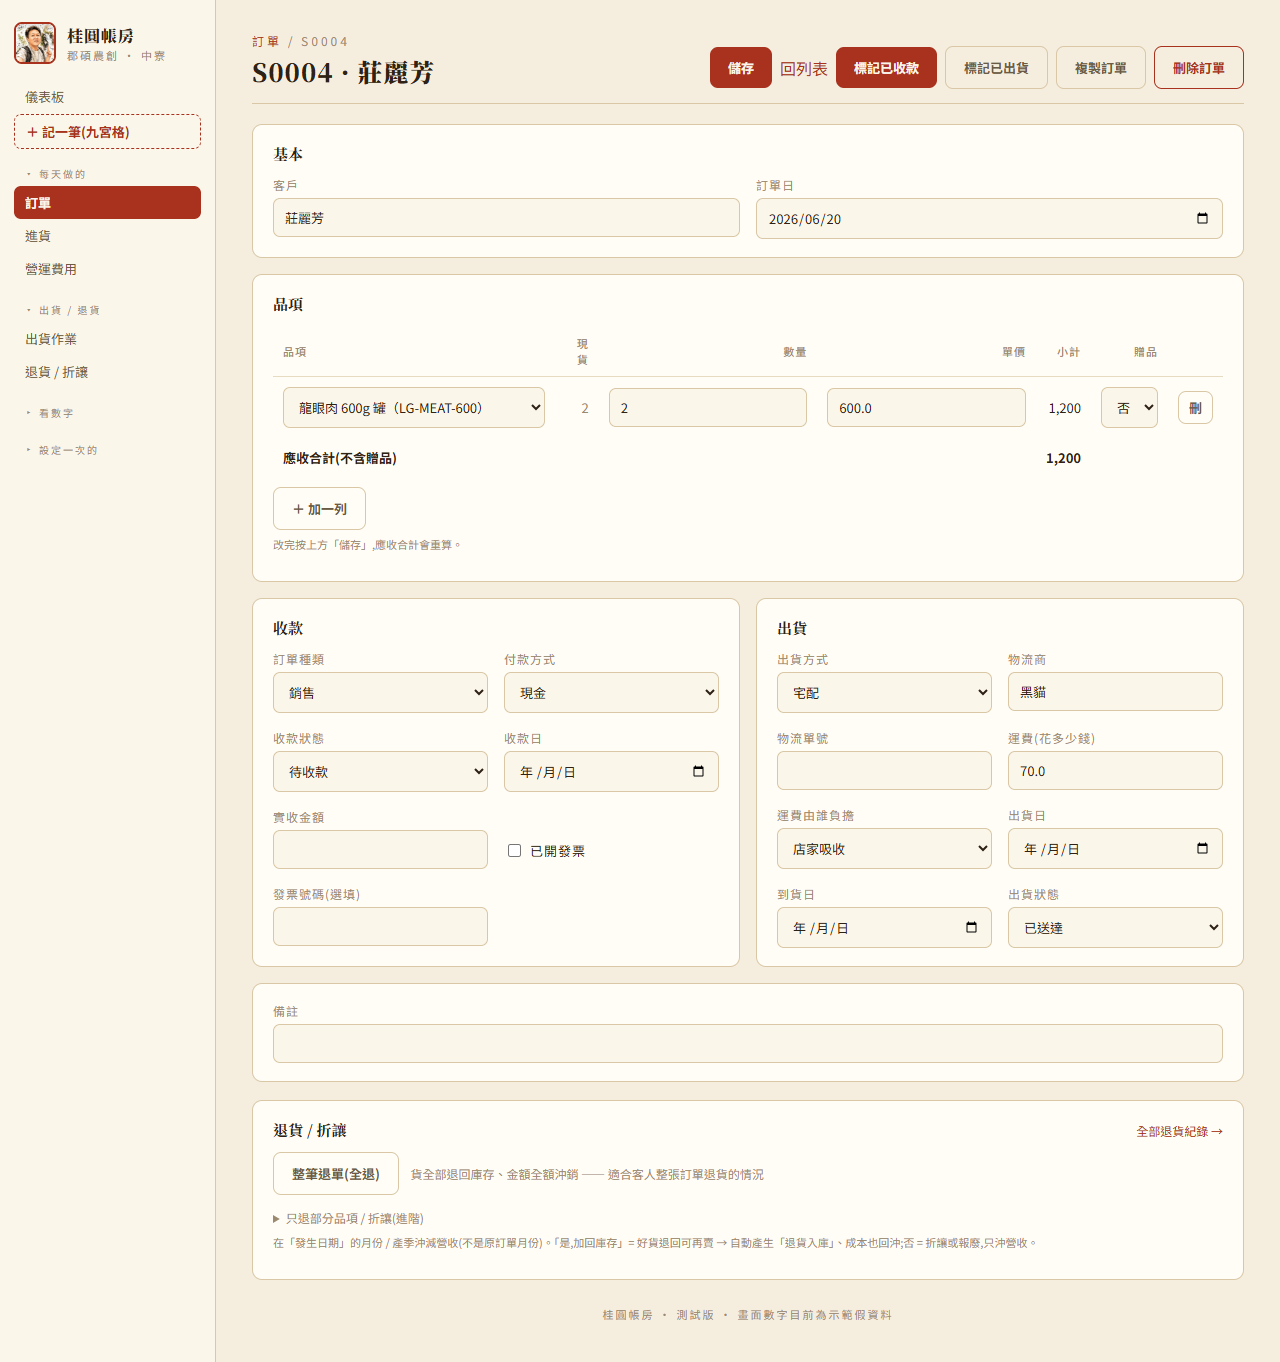
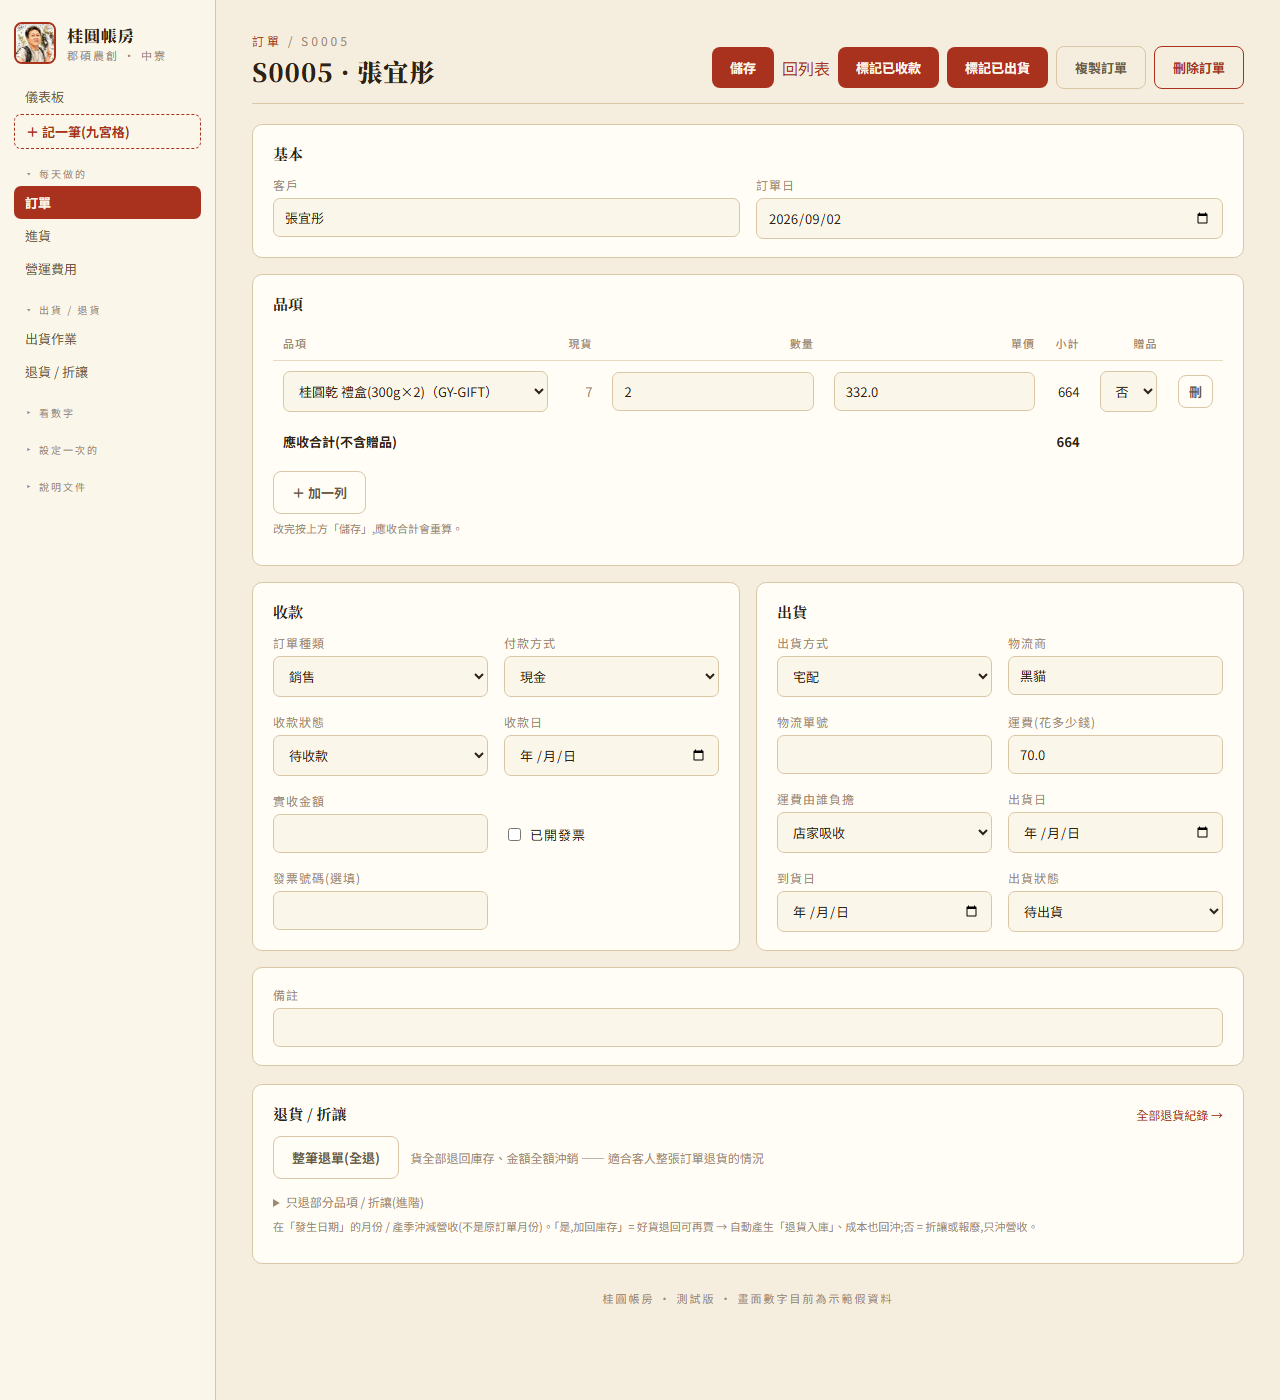
補拍兩張過期截圖(標記已收款/已出貨按鈕樣式統一後),順便查出 agent-browser 卡住的真正原因
不是機器慢,是 agent-browser 自己的背景常駐程式連線邏輯在這台不穩定,繞過去直接用
headless chrome --screenshot 就正常。

diff --git a/app/docs/工作日誌.md b/app/docs/工作日誌.md
@@ -1451,3 +1451,37 @@ Render 上實際會走的路)跟系統功能本身,一次做兩件事。
 ghost 樣式,還沒重拍。
 
 全部測試資料用 `seed.py --force` 清掉重灌,本機恢復乾淨的示範資料。
+
+---
+
+## 2026-10-03(續)補拍兩張截圖,順便抓到 agent-browser 今天一直卡住的真正原因
+
+使用者要求把上面提到的兩張舊截圖補拍掉。開始拍之前 `agent-browser open` 又跟今天前面
+好幾次一樣卡住,使用者這次直接追問「其他電腦沒這個問題,你是不是弄錯方向了」——問得對,
+**不是用「大概是硬體慢」隨便帶過去,查了才知道**:
+
+1. 直接呼叫 agent-browser 內建的 Chrome 執行檔(繞過它自己的背景常駐程式),
+   `chrome.exe --headless --dump-dom` 打本機網站,**不到 10 秒正常跑完、內容完全正確**
+   ——證實 Chrome 本身、這台機器都沒問題,使用者的直覺是對的。
+2. 查 agent-browser 的狀態資料夾(`~/.agent-browser`),卡住那次的 daemon process
+   (`agent-browser-win32-x64.exe`)是活著的,但**底下沒有對應的 Chrome 分頁**——代表
+   卡住的是它自己管理瀏覽器連線的那段邏輯,不是 Chrome 啟動慢。
+3. 先懷疑是今天整天反覆開關留下的大量殘留 session 狀態檔案(`~/.agent-browser` 下
+   幾十個 `.pid`/`.port`/`.config` 檔)讓 daemon 搞混,**整個清空重試過一次,問題依舊**
+   ——排除「殘留狀態」這個解釋,代表 daemon 本身在這台機器上就是不穩定,目前還沒查出
+   更深層的原因(可能是 Windows 上 CDP 連線的某個環節),先不繼續深究。
+
+**解法(繞過 daemon,不等它修好)**:直接用 `chrome.exe --headless --window-size=W,H
+--screenshot=路徑 URL` 這個指令列功能截圖,完全不經過 agent-browser 的背景程式,兩張圖
+都在 15 秒內拍完、品質跟之前用 agent-browser 拍的一樣。**以後這台機器如果再遇到
+agent-browser 卡住,優先用這個方式繞過去**,不用一直等 daemon。
+
+**拍了什麼**:
+- `order-detail.png`:示範資料的 S0005(待收款/待出貨 的新鮮狀態)——確認「標記已收款」
+  「標記已出貨」兩顆按鈕現在視覺上是同一個樣式(昨晚那個修改的結果)。
+- `order-paid-shipped.png`:同一張訂單標記已收款(實收 664)+ 已出貨後再拍一次——確認
+  已收款會變成文字顯示(不是按鈕)、「標記已出貨」變成灰階停用狀態。
+
+兩張都存進 `docs/screenshots/manual/`,拍完用 `seed.py --force` 把測試用的狀態改動清掉,
+本機恢復乾淨示範資料。昨晚記錄的「截圖還沒補」缺口到此補完,使用手冊/營運流程SOP 的
+文字描述跟截圖畫面現在完全一致。
